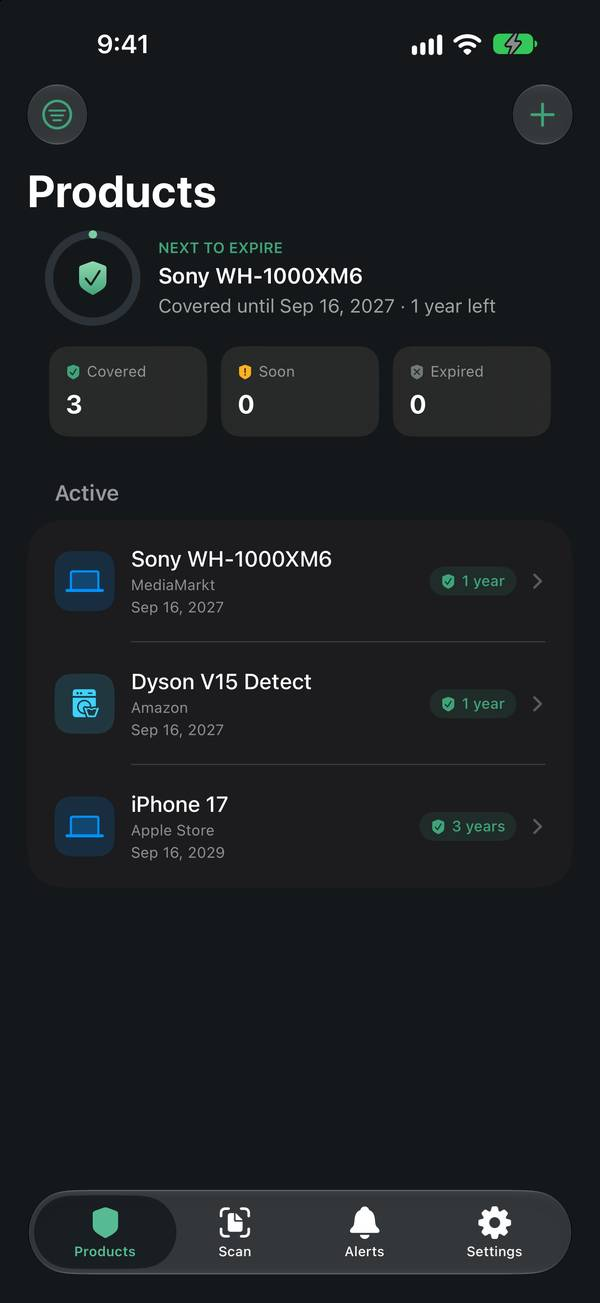
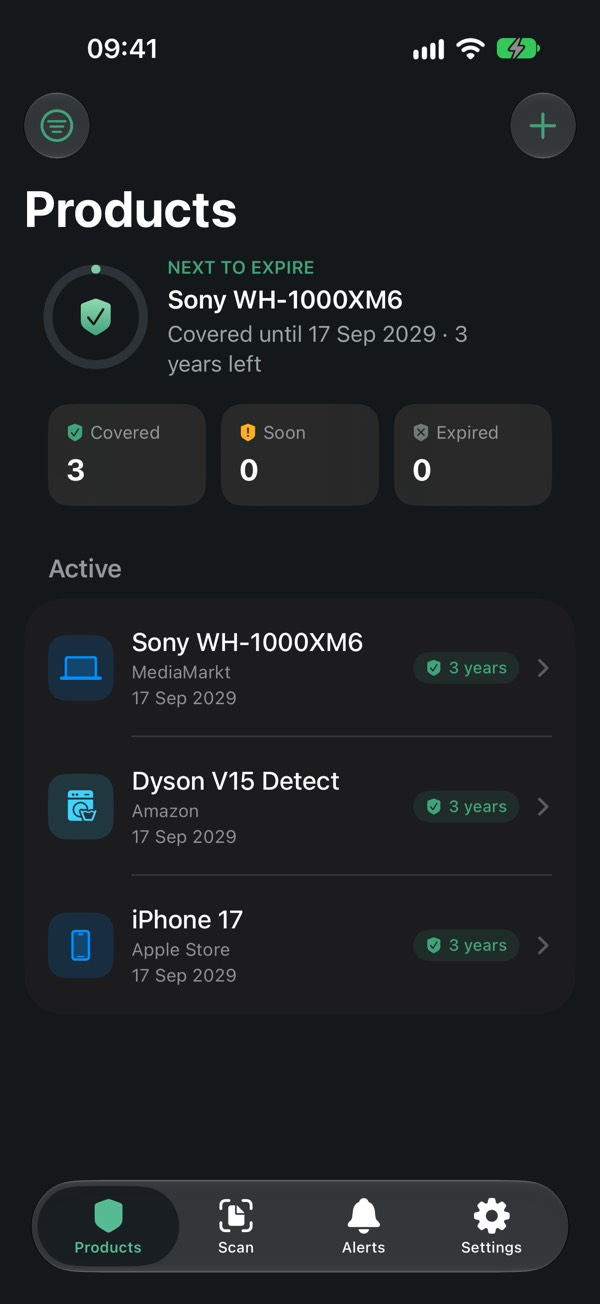
Kover: four screenshots of the three-question add flow and the seal (English simulator, Spain region); feature 01 now describes the flow

diff --git a/es/apps/kover.html b/es/apps/kover.html
@@ -55,13 +55,13 @@
       
     </div>
   </section>
-  <section class="shell" aria-label="Capturas"><div class="shots shots-4"><figure><div class="phone"><img src="../../assets/shots/kover-01-products.jpg" alt="Captura de Kover: La próxima en caducar, y toda la estantería" loading="lazy" width="552" height="1200"></div><figcaption>La próxima en caducar, y toda la estantería</figcaption></figure><figure><div class="phone"><img src="../../assets/shots/kover-02-detail.jpg" alt="Captura de Kover: Un producto: cubierto hasta, en palabras" loading="lazy" width="552" height="1200"></div><figcaption>Un producto: cubierto hasta, en palabras</figcaption></figure><figure><div class="phone"><img src="../../assets/shots/kover-03-scan.jpg" alt="Captura de Kover: Cámara, fototeca o PDF" loading="lazy" width="552" height="1200"></div><figcaption>Cámara, fototeca o PDF</figcaption></figure><figure><div class="phone"><img src="../../assets/shots/kover-04-add.jpg" alt="Captura de Kover: La garantía legal se rellena sola" loading="lazy" width="552" height="1200"></div><figcaption>La garantía legal se rellena sola</figcaption></figure></div></section>
+  <section class="shell" aria-label="Capturas"><div class="shots shots-4"><figure><div class="phone"><img src="../../assets/shots/kover-01-products.jpg" alt="Captura de Kover: La próxima en caducar, y toda la estantería" loading="lazy" width="552" height="1200"></div><figcaption>La próxima en caducar, y toda la estantería</figcaption></figure><figure><div class="phone"><img src="../../assets/shots/kover-02-add.jpg" alt="Captura de Kover: Tres preguntas: qué, cuándo, cuánto" loading="lazy" width="552" height="1200"></div><figcaption>Tres preguntas: qué, cuándo, cuánto</figcaption></figure><figure><div class="phone"><img src="../../assets/shots/kover-03-seal.jpg" alt="Captura de Kover: Guardado y sellado: cubierto hasta 2029" loading="lazy" width="552" height="1200"></div><figcaption>Guardado y sellado: cubierto hasta 2029</figcaption></figure><figure><div class="phone"><img src="../../assets/shots/kover-04-detail.jpg" alt="Captura de Kover: Un producto: cubierto hasta, en palabras" loading="lazy" width="552" height="1200"></div><figcaption>Un producto: cubierto hasta, en palabras</figcaption></figure></div></section>
 
   <section class="section shell" aria-labelledby="what-title">
     <div class="section-head">
       <div><p class="eyebrow">Qué hace</p><h2 id="what-title">Una sola cosa, <span>bien hecha.</span></h2></div>
     </div>
-    <div class="features"><div class="feature"><span class="num">01 / ESCANEAR</span><h3>El ticket escribe por ti</h3><p>Cámara, fototeca o un PDF del correo: Kover saca la fecha, la tienda, el importe y el país. Tú pones el nombre y queda archivado.</p></div><div class="feature"><span class="num">02 / VIGILAR</span><h3>Cubierto hasta, en palabras</h3><p>Garantía legal según el país —36 meses en España— más la extendida si la hay. «Quedan 3 años», no una cuenta atrás de días. Avisos un mes antes, una semana antes y el mismo día.</p></div><div class="feature"><span class="num">03 / RECLAMAR</span><h3>Todo para el día que lo necesites</h3><p>Número de serie, teléfono o web de soporte a un toque, la foto del ticket y un PDF para compartir. Reclamado, sustituido o ya no es tuyo: archivar en vez de borrar.</p></div></div>
+    <div class="features"><div class="feature"><span class="num">01 / AÑADIR</span><h3>Tres preguntas y el sello</h3><p>Qué has comprado, cuándo y dónde, cuánto costó. O deja que responda el ticket: cámara, fototeca o un PDF del correo, y los pasos llegan rellenos. Guardar termina en «Cubierto hasta».</p></div><div class="feature"><span class="num">02 / VIGILAR</span><h3>Cubierto hasta, en palabras</h3><p>Garantía legal según el país —36 meses en España— más la extendida si la hay. «Quedan 3 años», no una cuenta atrás de días. Avisos un mes antes, una semana antes y el mismo día.</p></div><div class="feature"><span class="num">03 / RECLAMAR</span><h3>Todo para el día que lo necesites</h3><p>Número de serie, teléfono o web de soporte a un toque, la foto del ticket y un PDF para compartir. Reclamado, sustituido o ya no es tuyo: archivar en vez de borrar.</p></div></div>
   </section>
 
   <section class="shell" aria-labelledby="privacy-title">

diff --git a/apps/kover.html b/apps/kover.html
@@ -55,13 +55,13 @@
       
     </div>
   </section>
-  <section class="shell" aria-label="Screenshots"><div class="shots shots-4"><figure><div class="phone"><img src="../assets/shots/kover-01-products.jpg" alt="Kover screenshot: Next to expire, and the whole shelf" loading="lazy" width="552" height="1200"></div><figcaption>Next to expire, and the whole shelf</figcaption></figure><figure><div class="phone"><img src="../assets/shots/kover-02-detail.jpg" alt="Kover screenshot: One product: covered until, in plain words" loading="lazy" width="552" height="1200"></div><figcaption>One product: covered until, in plain words</figcaption></figure><figure><div class="phone"><img src="../assets/shots/kover-03-scan.jpg" alt="Kover screenshot: Camera, library or PDF" loading="lazy" width="552" height="1200"></div><figcaption>Camera, library or PDF</figcaption></figure><figure><div class="phone"><img src="../assets/shots/kover-04-add.jpg" alt="Kover screenshot: The legal guarantee fills itself in" loading="lazy" width="552" height="1200"></div><figcaption>The legal guarantee fills itself in</figcaption></figure></div></section>
+  <section class="shell" aria-label="Screenshots"><div class="shots shots-4"><figure><div class="phone"><img src="../assets/shots/kover-01-products.jpg" alt="Kover screenshot: Next to expire, and the whole shelf" loading="lazy" width="552" height="1200"></div><figcaption>Next to expire, and the whole shelf</figcaption></figure><figure><div class="phone"><img src="../assets/shots/kover-02-add.jpg" alt="Kover screenshot: Three questions: what, when, how much" loading="lazy" width="552" height="1200"></div><figcaption>Three questions: what, when, how much</figcaption></figure><figure><div class="phone"><img src="../assets/shots/kover-03-seal.jpg" alt="Kover screenshot: Saved and sealed: covered until 2029" loading="lazy" width="552" height="1200"></div><figcaption>Saved and sealed: covered until 2029</figcaption></figure><figure><div class="phone"><img src="../assets/shots/kover-04-detail.jpg" alt="Kover screenshot: One product: covered until, in plain words" loading="lazy" width="552" height="1200"></div><figcaption>One product: covered until, in plain words</figcaption></figure></div></section>
 
   <section class="section shell" aria-labelledby="what-title">
     <div class="section-head">
       <div><p class="eyebrow">What it does</p><h2 id="what-title">One job, <span>done well.</span></h2></div>
     </div>
-    <div class="features"><div class="feature"><span class="num">01 / SCAN</span><h3>The receipt does the typing</h3><p>Camera, photo library or a PDF from your email: Kover pulls the date, store, amount and country. You add the name and it is filed.</p></div><div class="feature"><span class="num">02 / WATCH</span><h3>Covered until, in plain words</h3><p>Legal guarantee by country — 36 months in Spain — plus any extended warranty on top. «3 years left», not a countdown of days. Reminders at one month, one week and the day of.</p></div><div class="feature"><span class="num">03 / CLAIM</span><h3>Everything for the day you need it</h3><p>Serial number, support phone or website one tap away, the receipt photo, and a PDF to share. Claimed, replaced or gone: archive instead of delete.</p></div></div>
+    <div class="features"><div class="feature"><span class="num">01 / ADD</span><h3>Three questions, then the seal</h3><p>What did you buy, when and where, how much. Or let the receipt answer: camera, photo library or a PDF from your email, and the steps come prefilled. Saving ends on «Covered until».</p></div><div class="feature"><span class="num">02 / WATCH</span><h3>Covered until, in plain words</h3><p>Legal guarantee by country — 36 months in Spain — plus any extended warranty on top. «3 years left», not a countdown of days. Reminders at one month, one week and the day of.</p></div><div class="feature"><span class="num">03 / CLAIM</span><h3>Everything for the day you need it</h3><p>Serial number, support phone or website one tap away, the receipt photo, and a PDF to share. Claimed, replaced or gone: archive instead of delete.</p></div></div>
   </section>
 
   <section class="shell" aria-labelledby="privacy-title">

diff --git a/tools/gen_site.py b/tools/gen_site.py
@@ -174,25 +174,25 @@ APPS=[
           captions=['Inicio: la siguiente rutina, y «Ahora»','«¿Qué está pasando?» lleva a la herramienta adecuada','Registro sin números','Estrategias, con su evidencia'],
           extra='Anchor no es un producto sanitario y no sustituye al tratamiento profesional. Si estás en peligro o tus propios pensamientos te asustan, llama al número de emergencias de tu zona.')),
  app('kover','Kover','kover.png','Sendoa Sola','kover',
-     ['kover-01-products.jpg','kover-02-detail.jpg','kover-03-scan.jpg','kover-04-add.jpg'],
+     ['kover-01-products.jpg','kover-02-add.jpg','kover-03-seal.jpg','kover-04-detail.jpg'],
      dict(one='Snap the receipt, and Kover watches the warranty: what is covered, until when, and a nudge before it runs out.',
           tags=['Warranties','Receipts','ES · EN'],
           lede='Receipts fade, warranties expire quietly. <strong>Kover</strong> reads the date, store and amount from a photo or PDF of the receipt, works out the legal guarantee for your country, and keeps the photo, the serial number and the support contact in one place — with a reminder a month, a week and the day before it ends.',
           meta=['iOS 17+','Camera, Photos or PDF','English · Spanish'],
-          features=[('01 / SCAN','The receipt does the typing','Camera, photo library or a PDF from your email: Kover pulls the date, store, amount and country. You add the name and it is filed.'),
+          features=[('01 / ADD','Three questions, then the seal','What did you buy, when and where, how much. Or let the receipt answer: camera, photo library or a PDF from your email, and the steps come prefilled. Saving ends on «Covered until».'),
                     ('02 / WATCH','Covered until, in plain words','Legal guarantee by country — 36 months in Spain — plus any extended warranty on top. «3 years left», not a countdown of days. Reminders at one month, one week and the day of.'),
                     ('03 / CLAIM','Everything for the day you need it','Serial number, support phone or website one tap away, the receipt photo, and a PDF to share. Claimed, replaced or gone: archive instead of delete.')],
           privacy='Kover keeps your products and receipt photos on your device and in your own iCloud account. Receipts are read on the phone with Apple\'s Vision framework — nothing is uploaded, no account, no analytics.',
-          captions=['Next to expire, and the whole shelf','One product: covered until, in plain words','Camera, library or PDF','The legal guarantee fills itself in']),
+          captions=['Next to expire, and the whole shelf','Three questions: what, when, how much','Saved and sealed: covered until 2029','One product: covered until, in plain words']),
      dict(one='Haz una foto al ticket y Kover vigila la garantía: qué está cubierto, hasta cuándo, y un aviso antes de que se acabe.',
           tags=['Garantías','Tickets','ES · EN'],
           lede='Los tickets se borran, las garantías caducan sin avisar. <strong>Kover</strong> lee la fecha, la tienda y el importe de una foto o un PDF del ticket, calcula la garantía legal de tu país y guarda la foto, el número de serie y el contacto de soporte en un mismo sitio, con un aviso un mes, una semana y el día antes de que termine.',
           meta=['iOS 17+','Cámara, Fotos o PDF','Castellano · Inglés'],
-          features=[('01 / ESCANEAR','El ticket escribe por ti','Cámara, fototeca o un PDF del correo: Kover saca la fecha, la tienda, el importe y el país. Tú pones el nombre y queda archivado.'),
+          features=[('01 / AÑADIR','Tres preguntas y el sello','Qué has comprado, cuándo y dónde, cuánto costó. O deja que responda el ticket: cámara, fototeca o un PDF del correo, y los pasos llegan rellenos. Guardar termina en «Cubierto hasta».'),
                     ('02 / VIGILAR','Cubierto hasta, en palabras','Garantía legal según el país —36 meses en España— más la extendida si la hay. «Quedan 3 años», no una cuenta atrás de días. Avisos un mes antes, una semana antes y el mismo día.'),
                     ('03 / RECLAMAR','Todo para el día que lo necesites','Número de serie, teléfono o web de soporte a un toque, la foto del ticket y un PDF para compartir. Reclamado, sustituido o ya no es tuyo: archivar en vez de borrar.')],
           privacy='Kover guarda tus productos y las fotos de los tickets en tu dispositivo y en tu propia cuenta de iCloud. Los tickets se leen en el propio teléfono con el framework Vision de Apple: no se sube nada, sin cuenta, sin analítica.',
-          captions=['La próxima en caducar, y toda la estantería','Un producto: cubierto hasta, en palabras','Cámara, fototeca o PDF','La garantía legal se rellena sola'])),
+          captions=['La próxima en caducar, y toda la estantería','Tres preguntas: qué, cuándo, cuánto','Guardado y sellado: cubierto hasta 2029','Un producto: cubierto hasta, en palabras'])),
  app('tandem','Tandem','tandem.png','Sendoa Sola','tandem',
      ['tandem-01-dashboard.jpg','tandem-02-expenses.jpg','tandem-04-settle.jpg','tandem-03-reports.jpg'],
      dict(one='Fair expense splitting for couples: each pays in proportion to what they earn, and the month settles with one number.',
